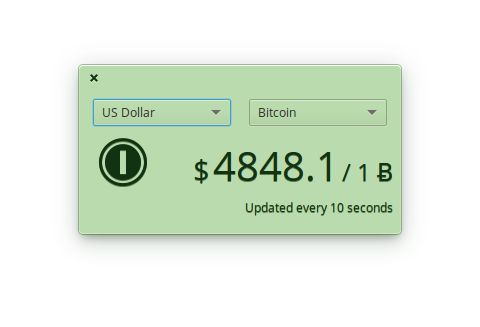
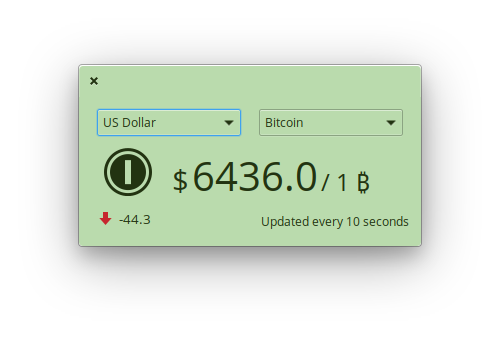
1.2.4 - New change ticker // Add Bitcoin Cash option

Changed region(s): [[0.125, 0.1835, 0.875, 0.8257]]

diff --git a/data/stylesheet.css b/data/stylesheet.css
@@ -1,9 +1,32 @@
 @define-color colorPrimary #badbad;
-@define-color textColorPrimary #113311;
+@define-color borderPrimary #445533;
+@define-color textColorPrimary #223311;
 
 .titlebar,
 .background {
     background-color: @colorPrimary;
     border: none;
     color: @textColorPrimary;
+}
+
+.coin-toolbar {
+    background: @colorPrimary;
+    color: @textColorPrimary;
+}
+
+combobox > box > button {
+    background: @colorPrimary;
+    color: @textColorPrimary;
+}
+
+cellview {
+    color: @textColorPrimary;
+}
+
+.negative-icon {
+    color: @STRAWBERRY_500;
+}
+
+.positive-icon {
+    color: @LIME_500;
 }

diff --git a/meson/post_install.py b/meson/post_install.py
@@ -7,3 +7,6 @@ schemadir = os.path.join(os.environ['MESON_INSTALL_PREFIX'], 'share', 'glib-2.0'
 if not os.environ.get('DESTDIR'):
     print('Compiling gsettings schemas...')
     subprocess.call(['glib-compile-schemas', schemadir], shell=False)
+
+    print('Rebuilding desktop icons cache...')
+    subprocess.call(['gtk-update-icon-cache', '/usr/share/icons/hicolor/'], shell=False)
